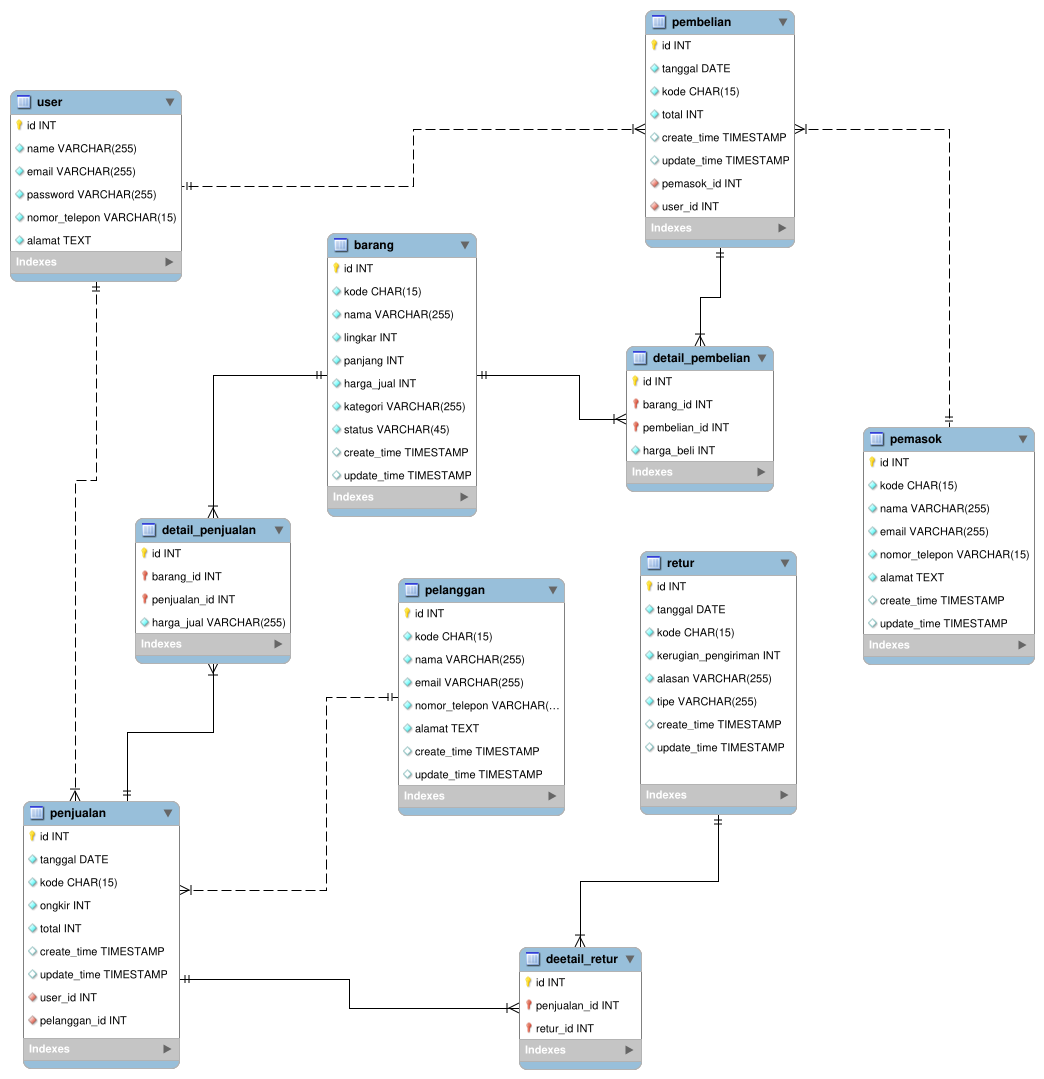
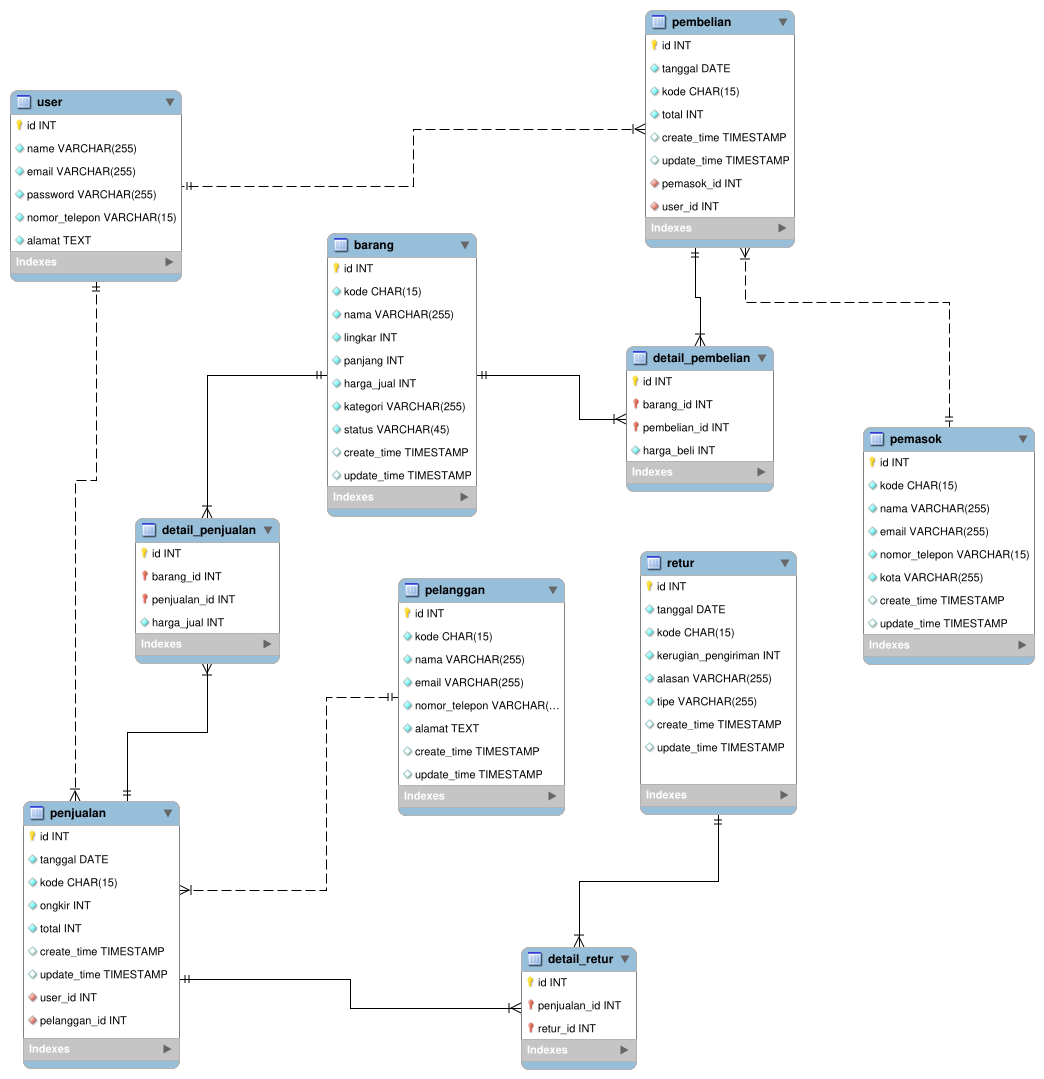
Mengubah atribut alamat menjadi kota pada pemasok

diff --git a/database/migrations/2026_09_21_000003_create_pemasok_table.php b/database/migrations/2026_09_21_000003_create_pemasok_table.php
@@ -14,7 +14,7 @@ return new class extends Migration
             $table->string('nama');
             $table->string('email')->unique();
             $table->string('nomor_telepon', 15)->unique();
-            $table->text('alamat');
+            $table->string('kota');
             $table->timestamps();
         });
     }

diff --git a/app/Models/Pemasok.php b/app/Models/Pemasok.php
@@ -14,7 +14,7 @@ class Pemasok extends Model
         'nama',
         'email',
         'nomor_telepon',
-        'alamat',
+        'kota',
     ];
 
     public function pembelian(): HasMany
